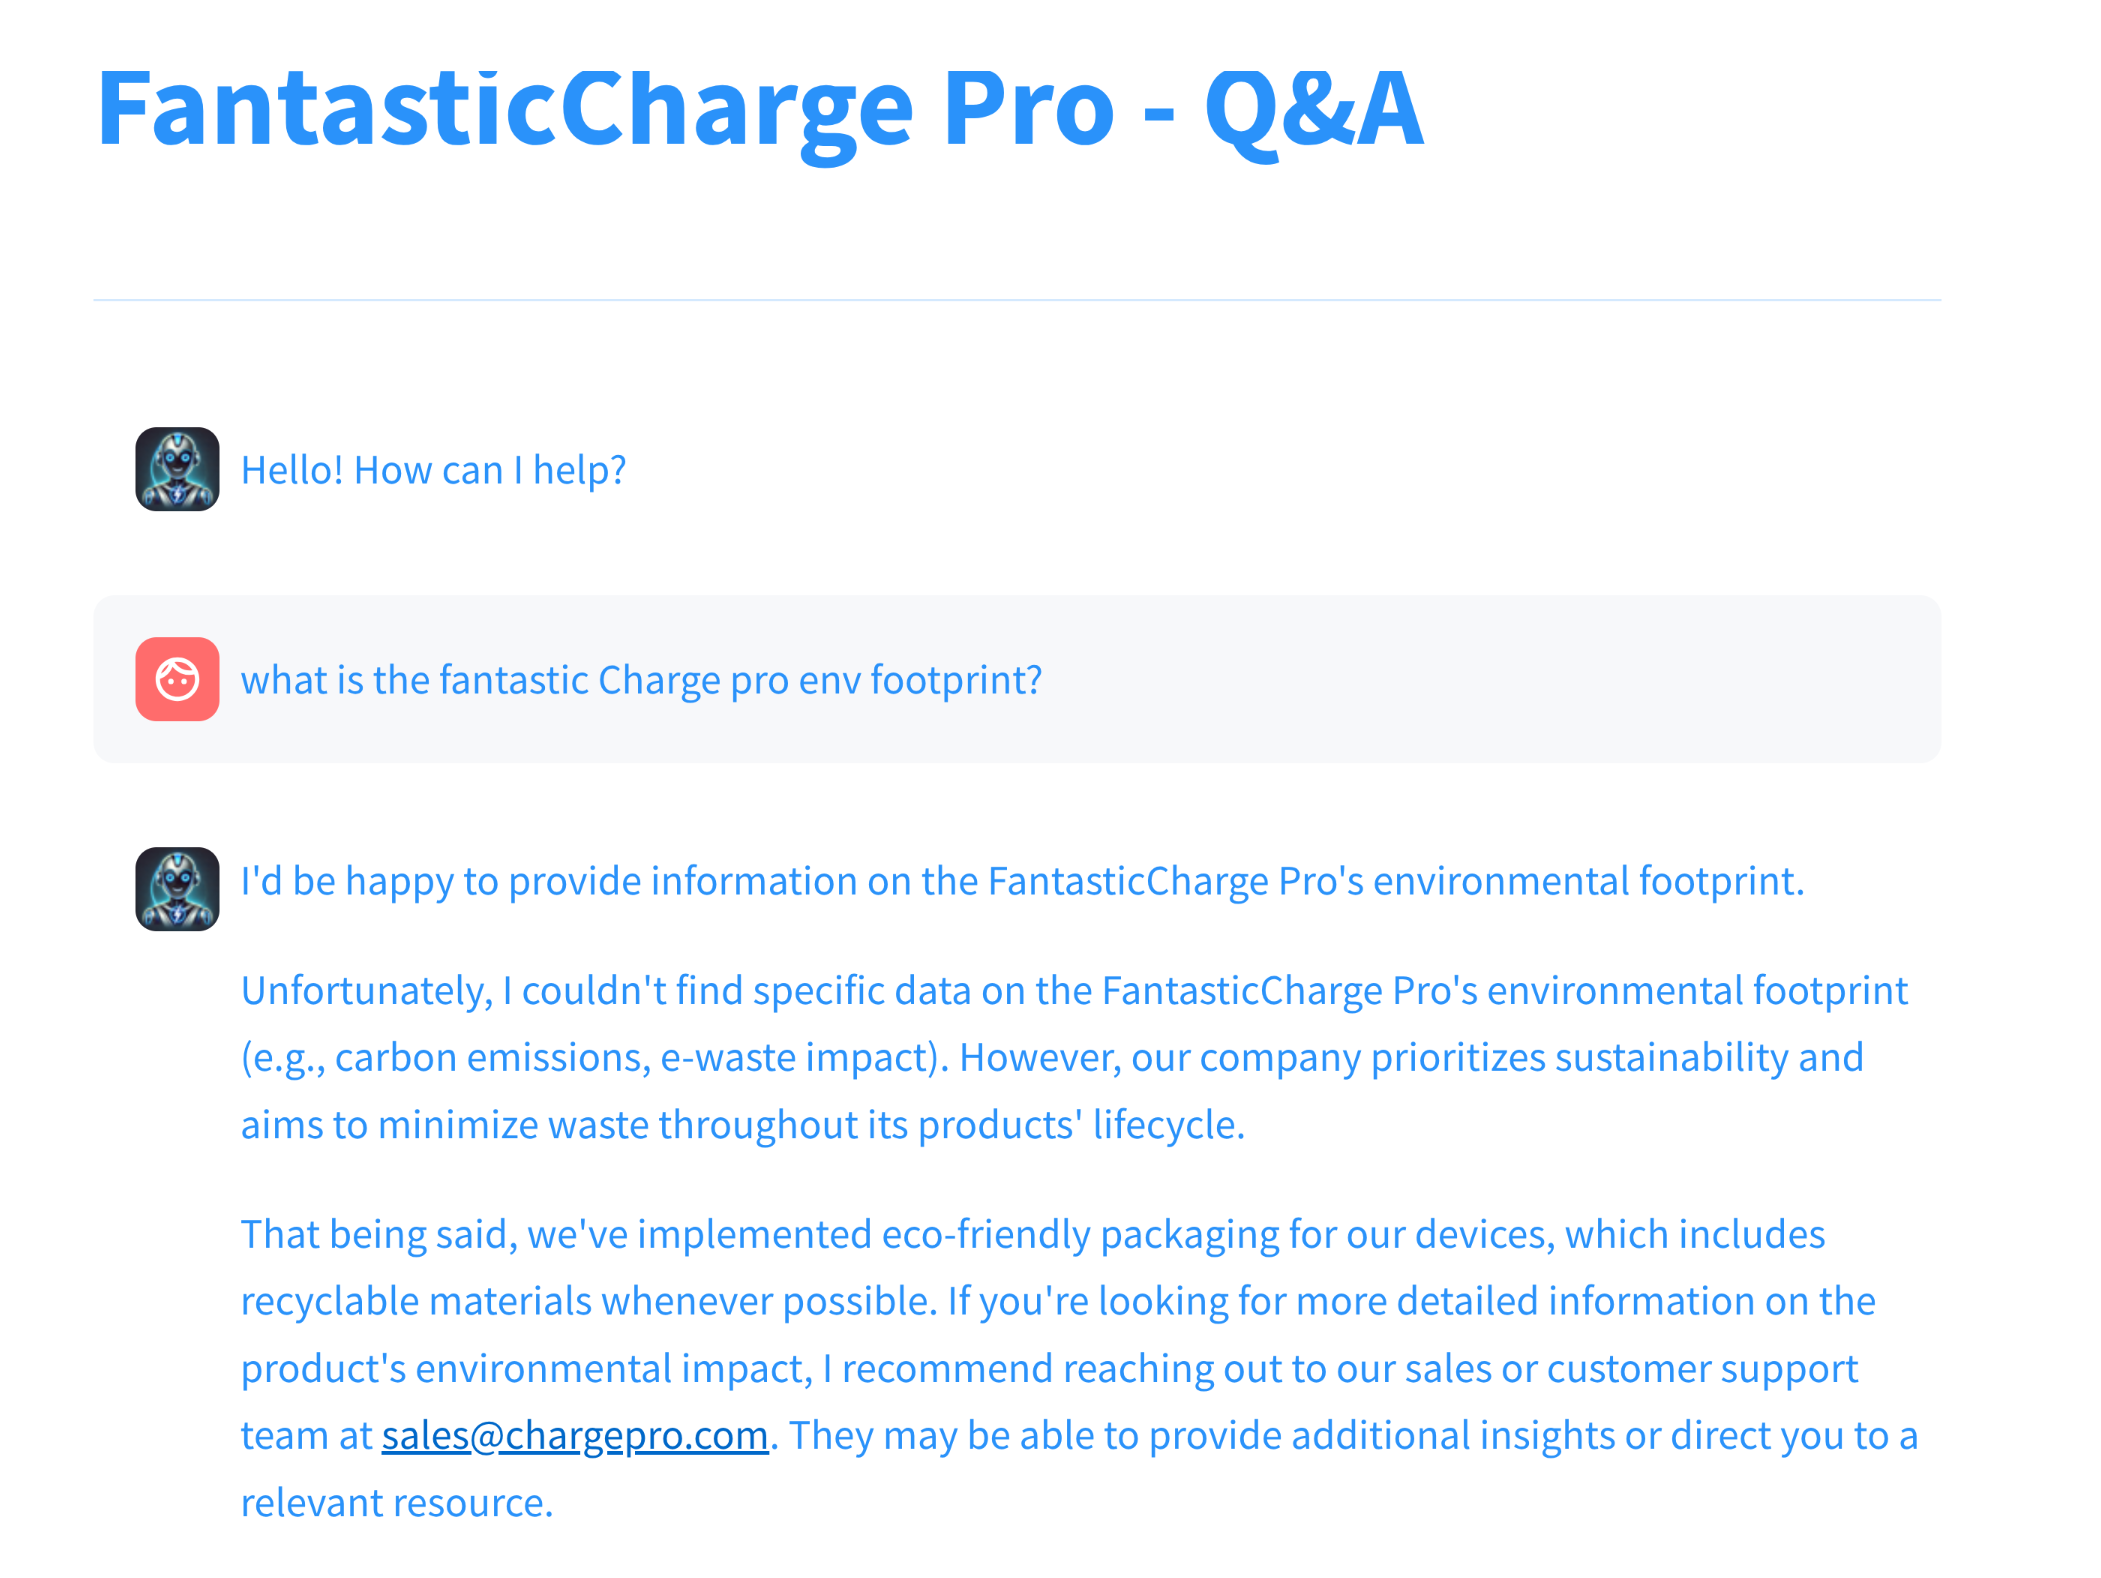
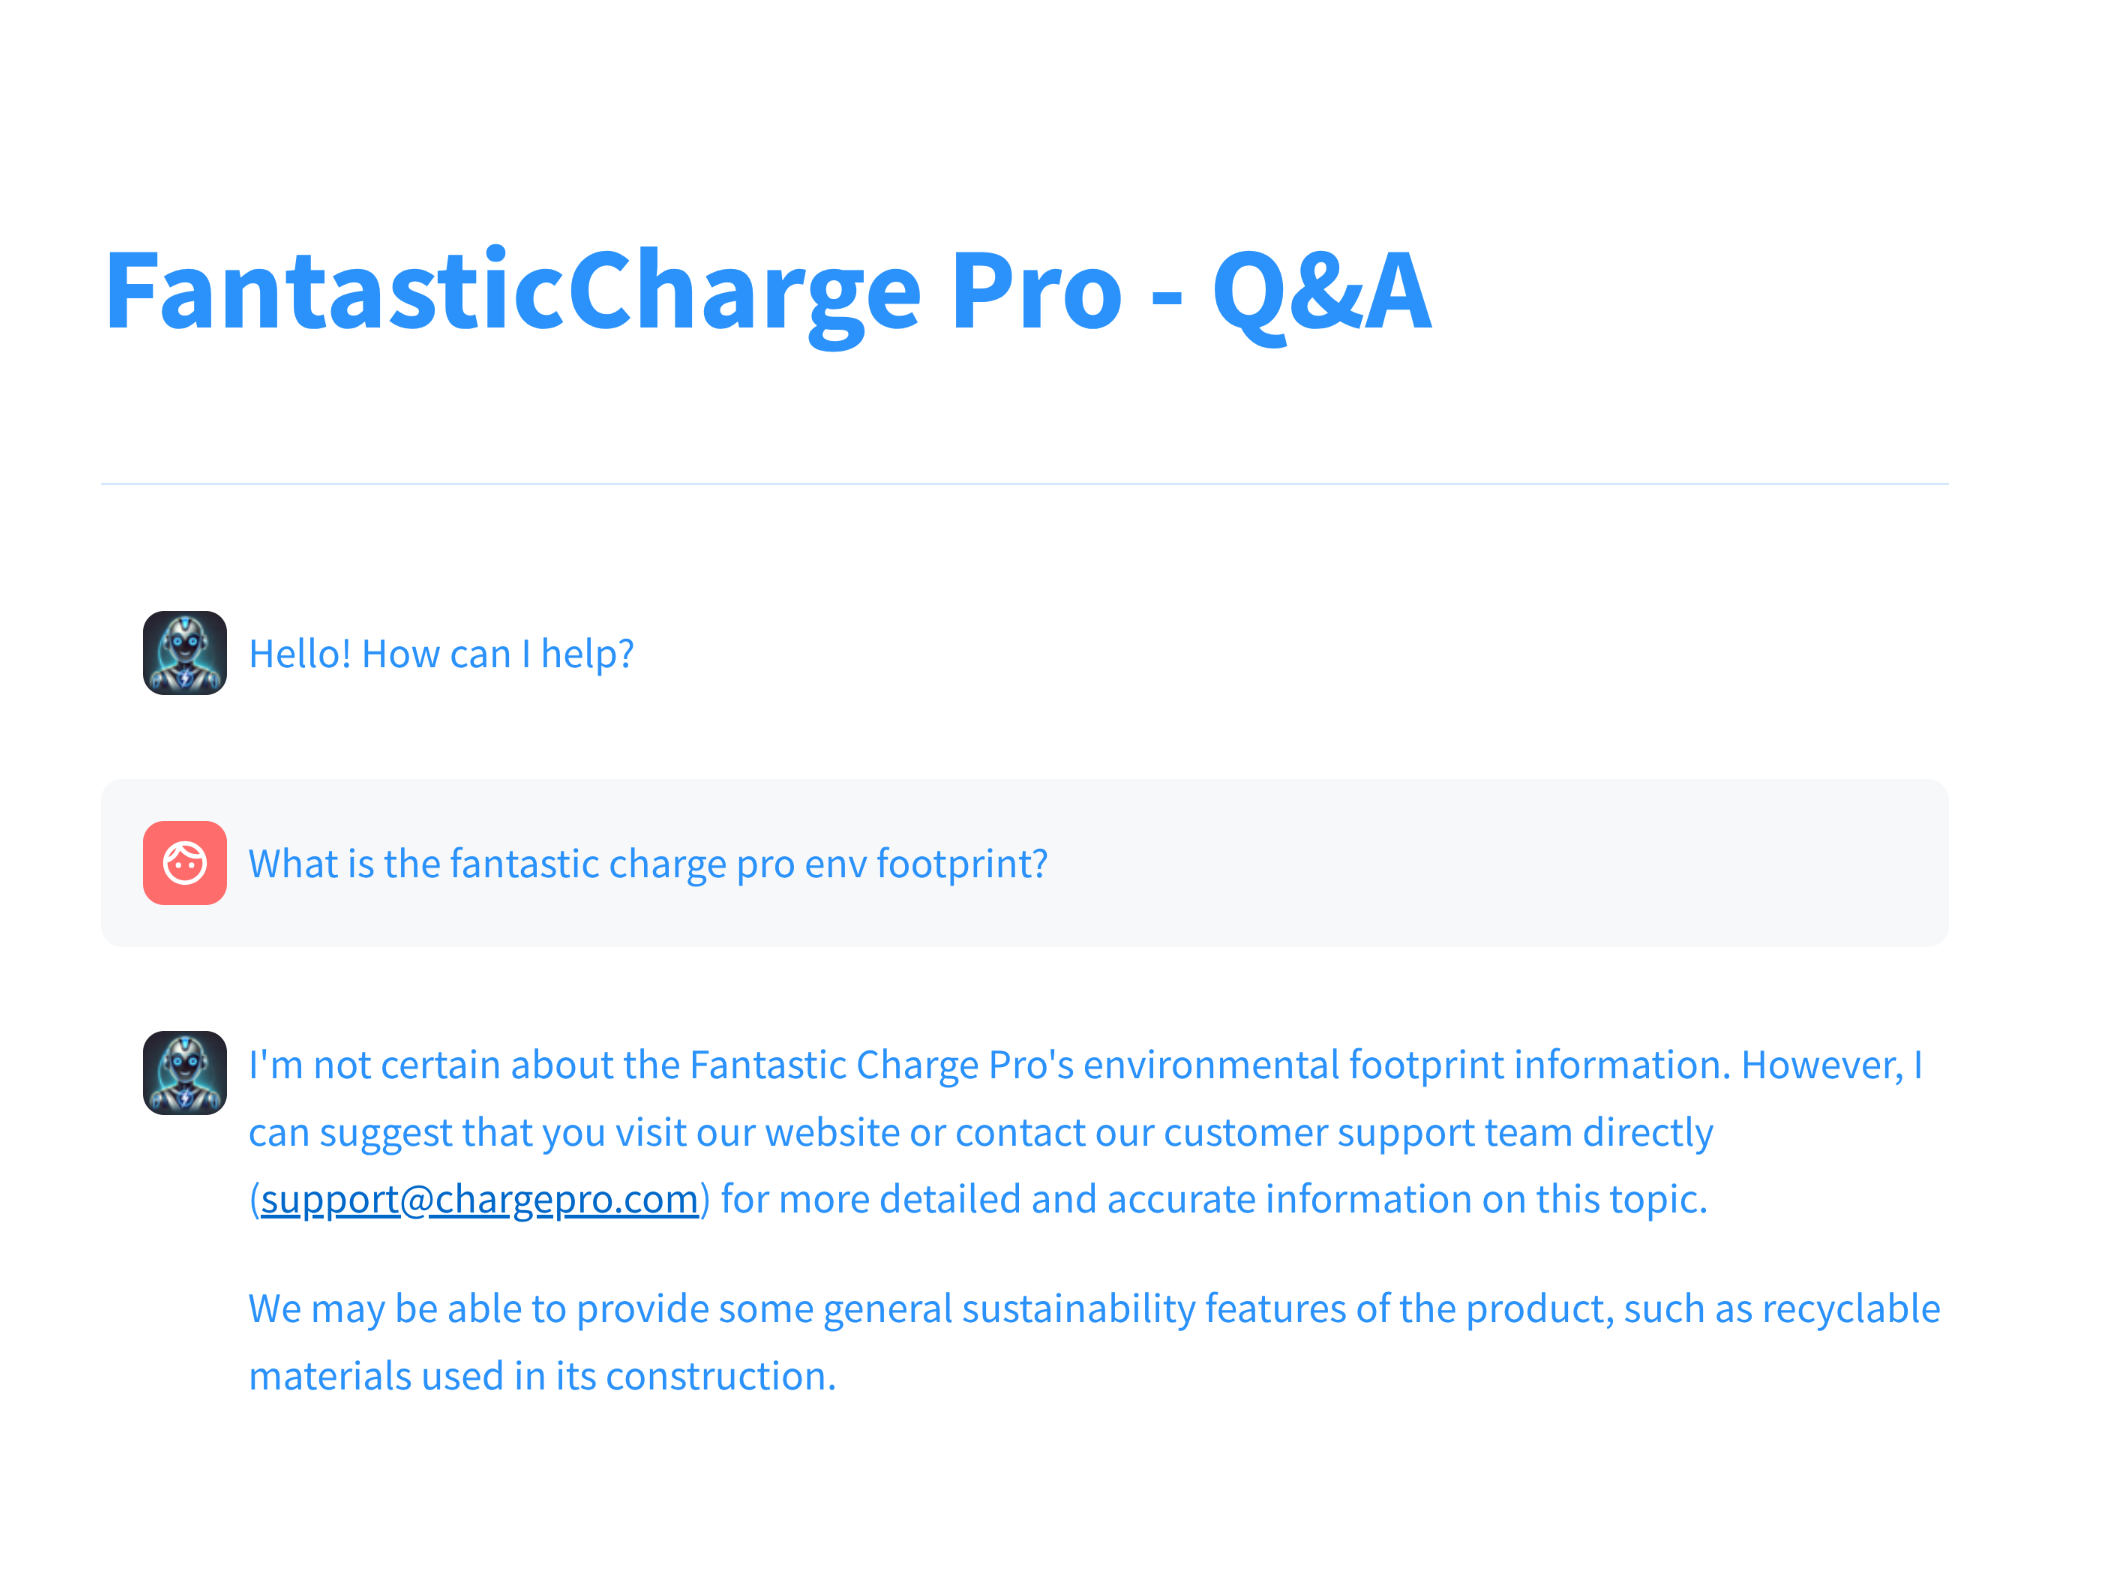
fix system prompt

diff --git a/src/qa/qa_st.py b/src/qa/qa_st.py
@@ -31,7 +31,9 @@ If information is missing or unclear, ask clarifying questions.
 
 Stick to known facts. If unsure, say: "I'm not certain, but I'll note this for follow-up."
 
-For requests outside your scope (e.g., refunds, legal issues), politely redirect the user to human support, include always the email support@chargepro.com.
+For requests outside your scope (e.g., refunds, legal issues), politely redirect the user to human support. 
+
+Include always the follwoing email support@chargepro.com when redirecting the user.
 
 Tone: Friendly, professional, and empathetic. Always match the customer's tone, but never be sarcastic or emotional.
 
